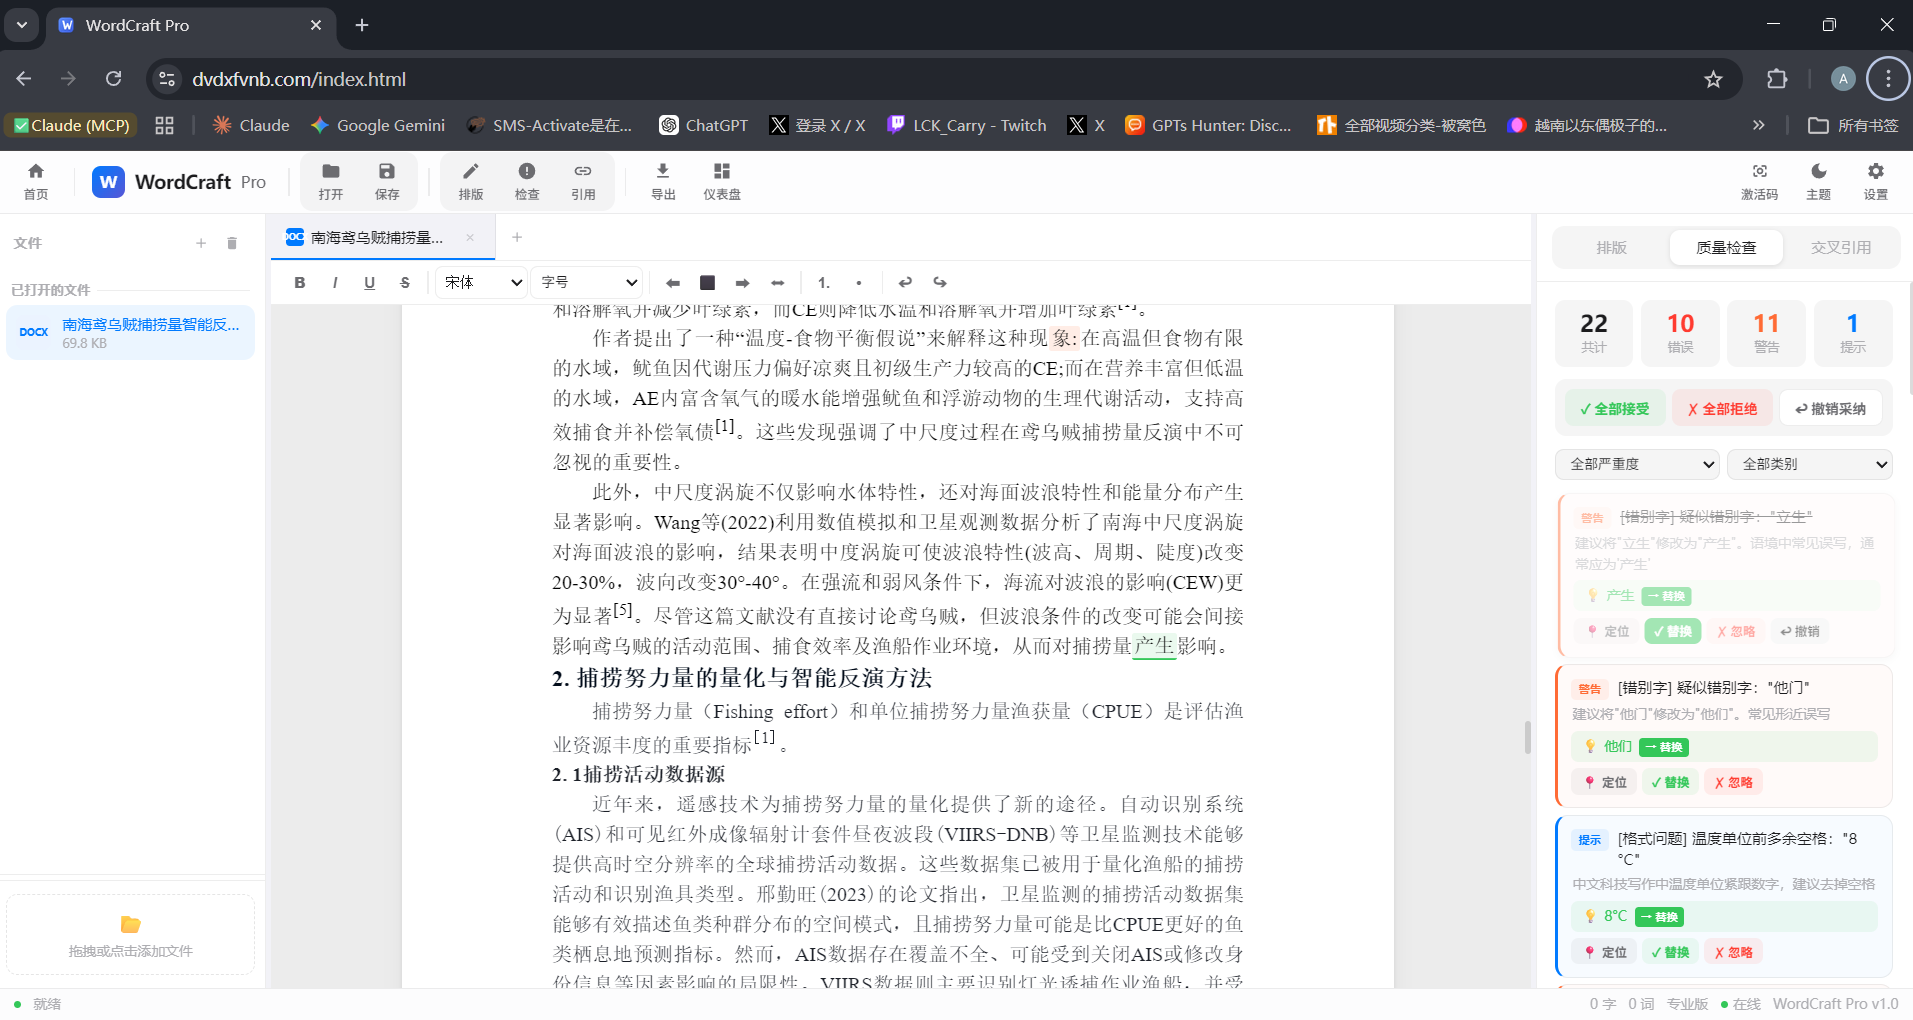
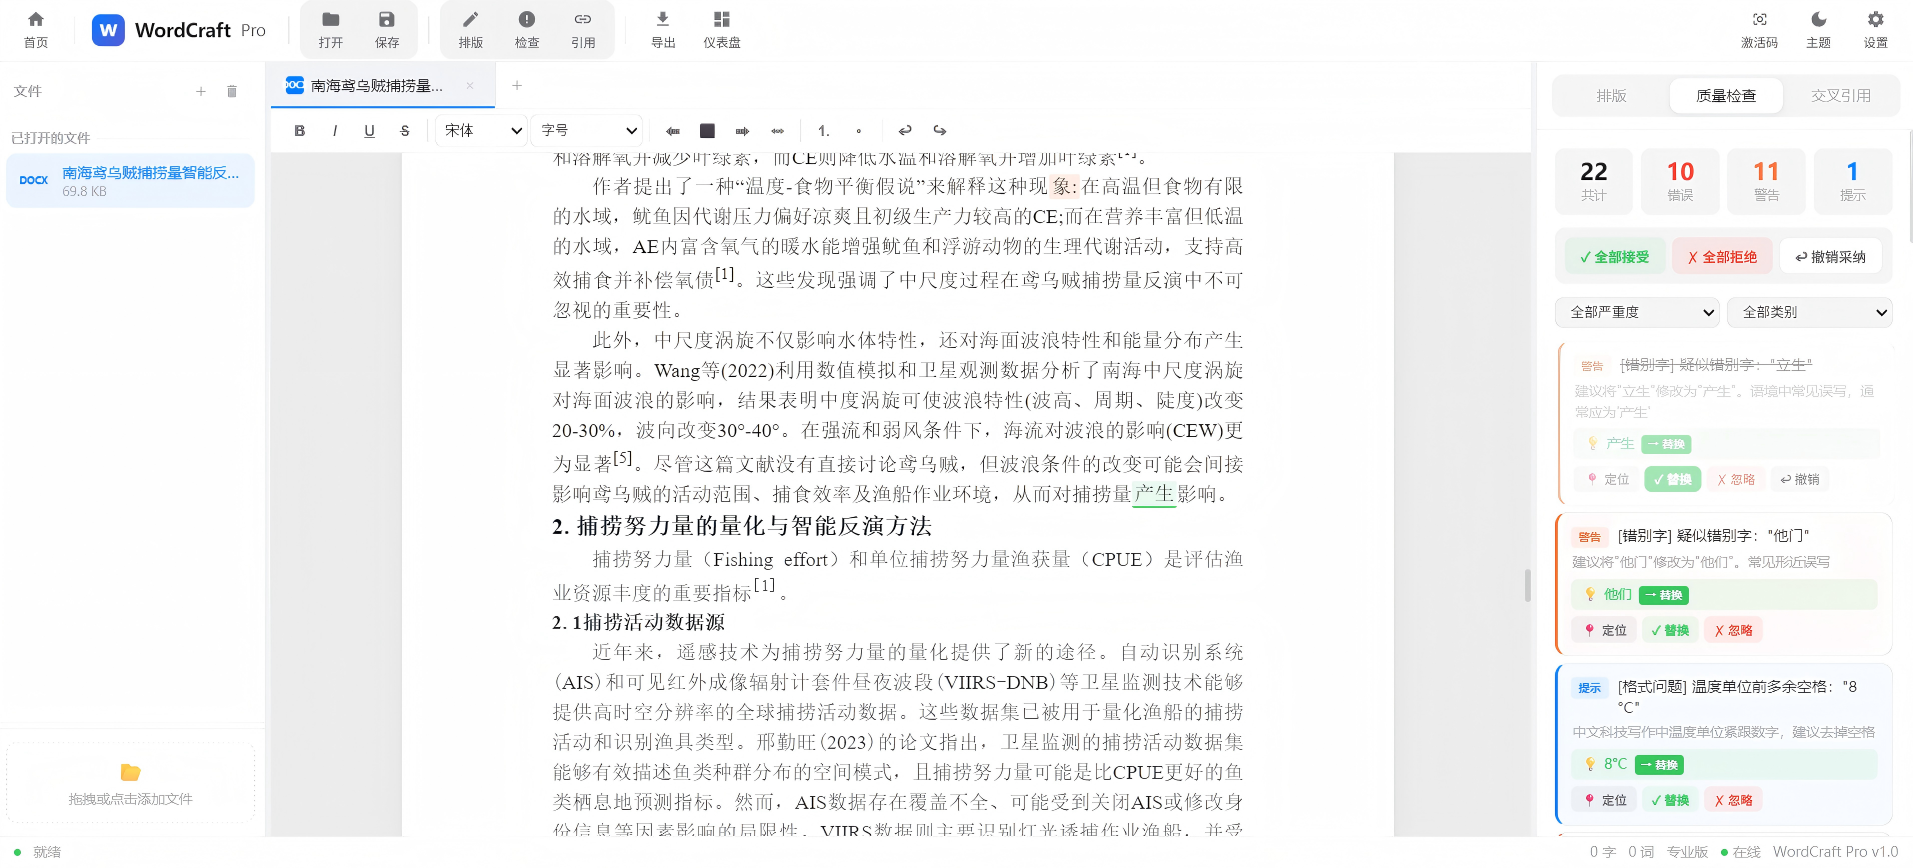
docs: fix README screenshot ordering and copy tone
Correct screenshot mapping for sections 1-4, swap typo-fix step images to match the intended flow, and rewrite the step description in more natural wording.

diff --git a/README.md b/README.md
@@ -18,7 +18,7 @@ WordCraft Pro 是一个面向中文文档场景的 Web 工具：上传文档 -> 
 上传、排版、检查、导出都在同一条流程里，不需要来回切多个工具。
 
 <p align="center">
-  <img src="assets/screenshots/homepage.png" alt="网页主页" width="900" />
+  <img src="assets/screenshots/qa-workspace.png" alt="网页主页" width="900" />
 </p>
 
 ---
@@ -28,7 +28,7 @@ WordCraft Pro 是一个面向中文文档场景的 Web 工具：上传文档 -> 
 在排版工作区统一调整字体、字号、行距、缩进、页边距，减少手工重复操作。
 
 <p align="center">
-  <img src="assets/screenshots/typesetting-workspace.png" alt="排版工作区" width="900" />
+  <img src="assets/screenshots/homepage.png" alt="排版工作区" width="900" />
 </p>
 
 ---
@@ -38,7 +38,7 @@ WordCraft Pro 是一个面向中文文档场景的 Web 工具：上传文档 -> 
 自动提示错别字、数据一致性、逻辑和标点问题，把“人工通读”变成“重点复核”。
 
 <p align="center">
-  <img src="assets/screenshots/qa-workspace.png" alt="QA 检查工作区" width="900" />
+  <img src="assets/screenshots/xref-highlight.png" alt="QA 检查工作区" width="900" />
 </p>
 
 ---
@@ -48,19 +48,19 @@ WordCraft Pro 是一个面向中文文档场景的 Web 工具：上传文档 -> 
 图表/章节引用异常会在界面里直接定位，避免最终导出后才发现引用错位。
 
 <p align="center">
-  <img src="assets/screenshots/xref-highlight.png" alt="交叉引用高亮" width="900" />
+  <img src="assets/screenshots/typesetting-workspace.png" alt="交叉引用高亮" width="900" />
 </p>
 
 ---
 
 ### 5) 错别字修复有过程：能看见每一步变化
 
-不仅给出结论，还展示修复过程，便于人工确认和二次判断。
+这三张图分别是：先定位问题，再看修改结果，最后看导出后在 WPS 里的实际显示效果。
 
 <p align="center">
-  <img src="assets/screenshots/typo-fix-1.png" alt="错别字修复 1" width="900" />
-  <img src="assets/screenshots/typo-fix-2.png" alt="错别字修复 2" width="900" />
-  <img src="assets/screenshots/typo-fix-3.png" alt="错别字修复 3" width="900" />
+  <img src="assets/screenshots/typo-fix-2.png" alt="错别字修复：定位问题" width="900" />
+  <img src="assets/screenshots/typo-fix-1.png" alt="错别字修复：修改后结果" width="900" />
+  <img src="assets/screenshots/typo-fix-3.png" alt="错别字修复：导出后在 WPS 打开效果" width="900" />
 </p>
 
 ---